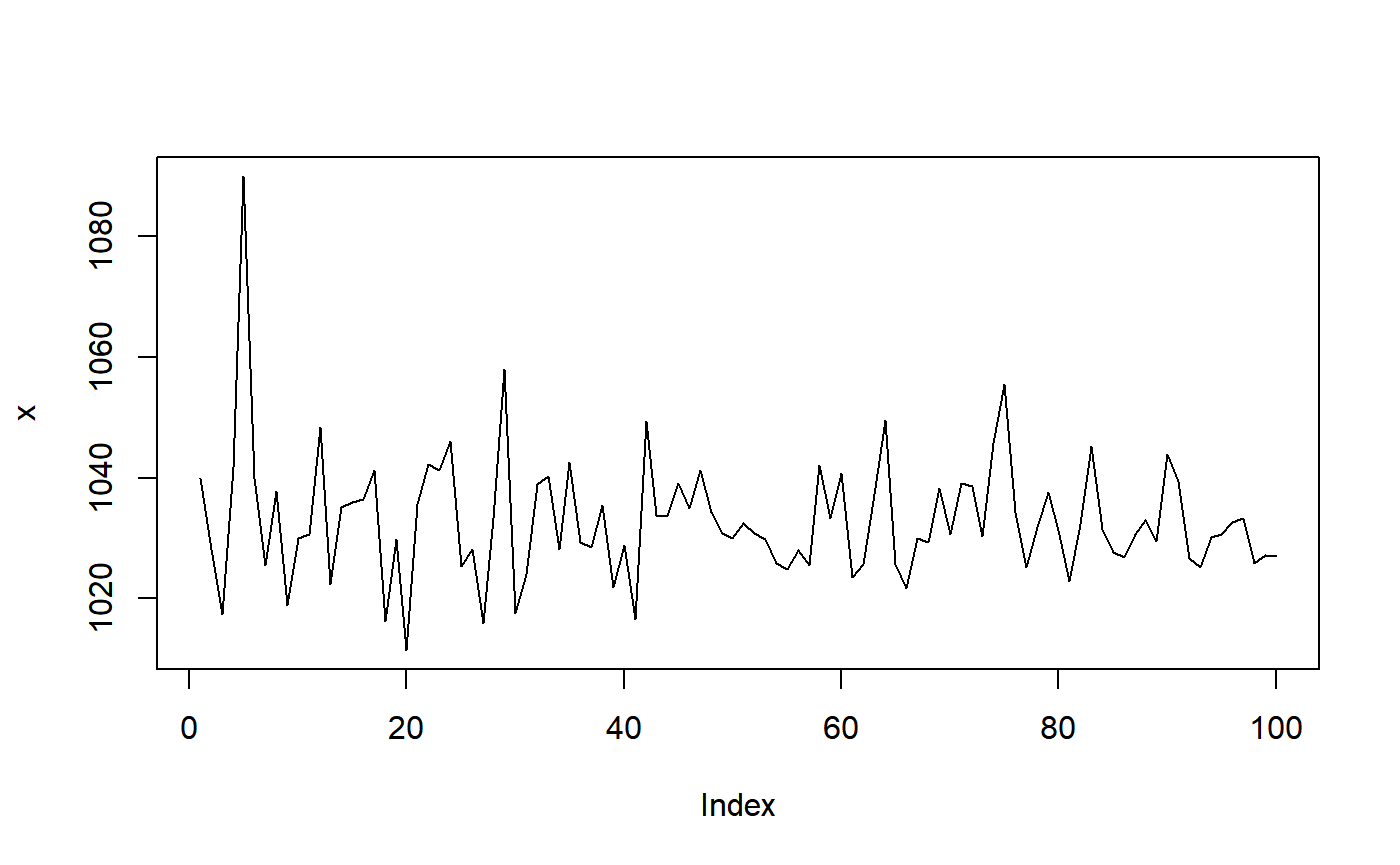
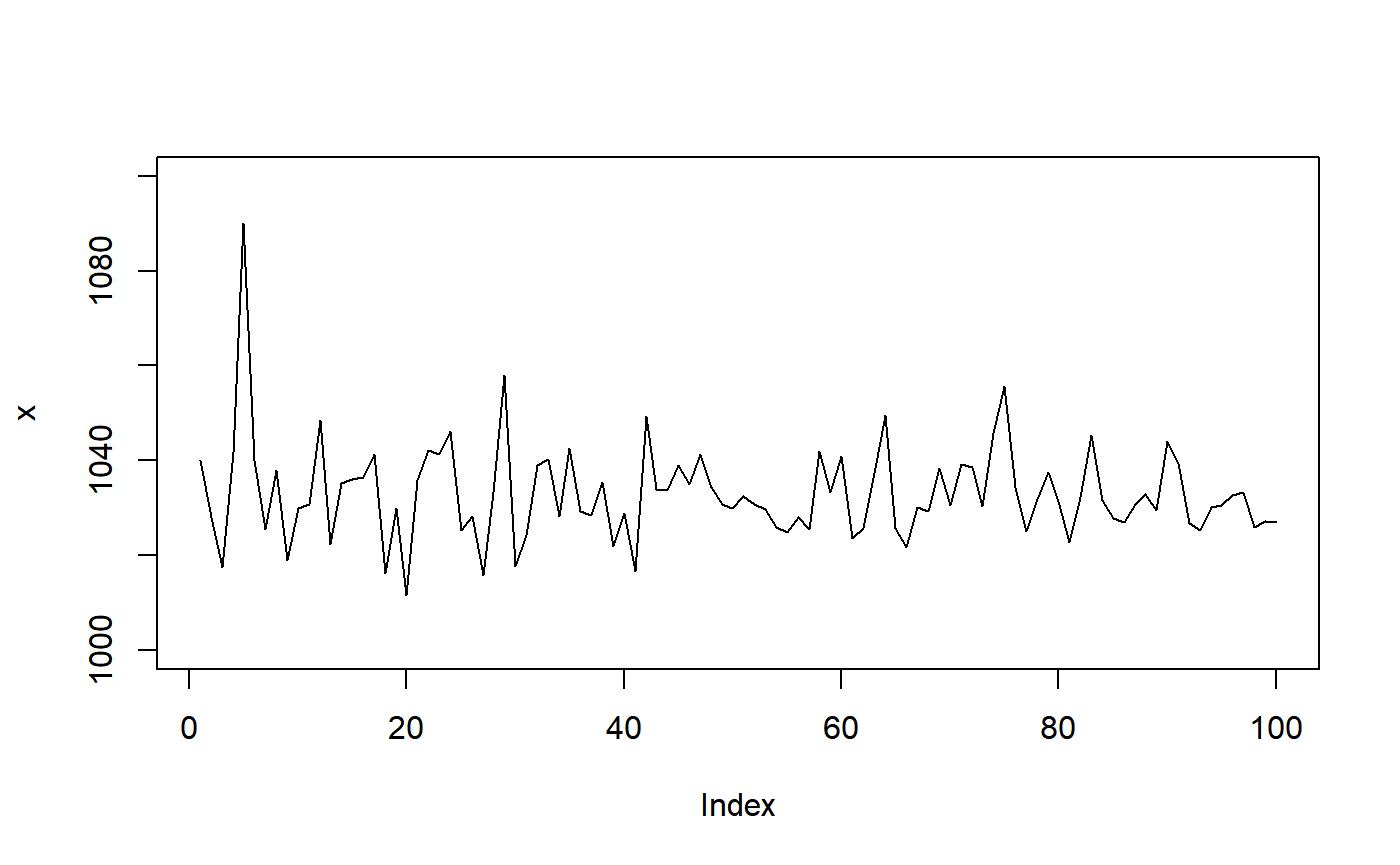
getting started: fixed ylim for air pressure = better plots

diff --git a/gwloggeR/vignettes/gwloggeR.html b/gwloggeR/vignettes/gwloggeR.html
@@ -11,7 +11,7 @@
 <meta name="viewport" content="width=device-width, initial-scale=1">
 
 
-<meta name="date" content="2019-09-20" />
+<meta name="date" content="2019-09-22" />
 
 <title>Introduction to gwloggeR</title>
 
@@ -93,7 +93,7 @@ code > span.in { color: #60a0b0; font-weight: bold; font-style: italic; } /* Inf
 
 
 <h1 class="title toc-ignore">Introduction to gwloggeR</h1>
-<h4 class="date">2019-09-20</h4>
+<h4 class="date">2019-09-22</h4>
 
 
 <div id="TOC">
@@ -134,14 +134,14 @@ code > span.in { color: #60a0b0; font-weight: bold; font-style: italic; } /* Inf
 mu &lt;-<span class="st"> </span><span class="dv">1033</span>
 sigma &lt;-<span class="st"> </span><span class="fl">9.5</span>
 x &lt;-<span class="st"> </span><span class="kw">rnorm</span>(n, <span class="dt">mean =</span> mu, <span class="dt">sd =</span> sigma)
-<span class="kw">plot</span>(x, <span class="dt">type =</span> <span class="st">'l'</span>)</code></pre></div>
[1 lines of base64/hex data omitted]
+<span class="kw">plot</span>(x, <span class="dt">type =</span> <span class="st">'l'</span>, <span class="dt">ylim =</span> <span class="kw">c</span>(<span class="dv">1000</span>, <span class="dv">1100</span>))</code></pre></div>
[1 lines of base64/hex data omitted]
 <div id="detect-outliers" class="section level3">
 <h3>Detect outliers</h3>
 <p>Now lets add an outlier to <code>x</code>. An outlier we define as a single extreme value. E.g. <span class="math inline">\(6 \times \hat{\sigma}\)</span>.</p>
 <div class="sourceCode"><pre class="sourceCode r"><code class="sourceCode r">x[5L] &lt;-<span class="st"> </span>mu <span class="op">+</span><span class="st"> </span><span class="dv">6</span><span class="op">*</span>sigma
-<span class="kw">plot</span>(x, <span class="dt">type =</span> <span class="st">'l'</span>)</code></pre></div>
[1 lines of base64/hex data omitted]
+<span class="kw">plot</span>(x, <span class="dt">type =</span> <span class="st">'l'</span>, <span class="dt">ylim =</span> <span class="kw">c</span>(<span class="dv">1000</span>, <span class="dv">1100</span>))</code></pre></div>
[1 lines of base64/hex data omitted]
 <div id="without-apriori-information" class="section level4">
 <h4>Without apriori information</h4>
 <p>Assuming we do not have any apriori information about <code>x</code>, we can execute:</p>

diff --git a/gwloggeR/docs/articles/gwloggeR.html b/gwloggeR/docs/articles/gwloggeR.html
@@ -128,14 +128,14 @@
 mu &lt;-<span class="st"> </span><span class="dv">1033</span>
 sigma &lt;-<span class="st"> </span><span class="fl">9.5</span>
 x &lt;-<span class="st"> </span><span class="kw"><a href="https://rdrr.io/r/stats/Normal.html">rnorm</a></span>(n, <span class="dt">mean =</span> mu, <span class="dt">sd =</span> sigma)
-<span class="kw"><a href="https://rdrr.io/r/graphics/plot.html">plot</a></span>(x, <span class="dt">type =</span> <span class="st">'l'</span>)</code></pre></div>
+<span class="kw"><a href="https://rdrr.io/r/graphics/plot.html">plot</a></span>(x, <span class="dt">type =</span> <span class="st">'l'</span>, <span class="dt">ylim =</span> <span class="kw"><a href="https://rdrr.io/r/base/c.html">c</a></span>(<span class="dv">1000</span>, <span class="dv">1100</span>))</code></pre></div>
 <p><img src="gwloggeR_files/figure-html/airpressure-sim-1.png" width="700"></p>
 <div id="detect-outliers" class="section level3">
 <h3 class="hasAnchor">
 <a href="#detect-outliers" class="anchor"></a>Detect outliers</h3>
 <p>Now lets add an outlier to <code>x</code>. An outlier we define as a single extreme value. E.g. <span class="math inline">\(6 \times \hat{\sigma}\)</span>.</p>
 <div class="sourceCode"><pre class="sourceCode r"><code class="sourceCode r">x[5L] &lt;-<span class="st"> </span>mu <span class="op">+</span><span class="st"> </span><span class="dv">6</span><span class="op">*</span>sigma
-<span class="kw"><a href="https://rdrr.io/r/graphics/plot.html">plot</a></span>(x, <span class="dt">type =</span> <span class="st">'l'</span>)</code></pre></div>
+<span class="kw"><a href="https://rdrr.io/r/graphics/plot.html">plot</a></span>(x, <span class="dt">type =</span> <span class="st">'l'</span>, <span class="dt">ylim =</span> <span class="kw"><a href="https://rdrr.io/r/base/c.html">c</a></span>(<span class="dv">1000</span>, <span class="dv">1100</span>))</code></pre></div>
 <p><img src="gwloggeR_files/figure-html/airpressure-ao-sim-1.png" width="700"></p>
 <div id="without-apriori-information" class="section level4">
 <h4 class="hasAnchor">
